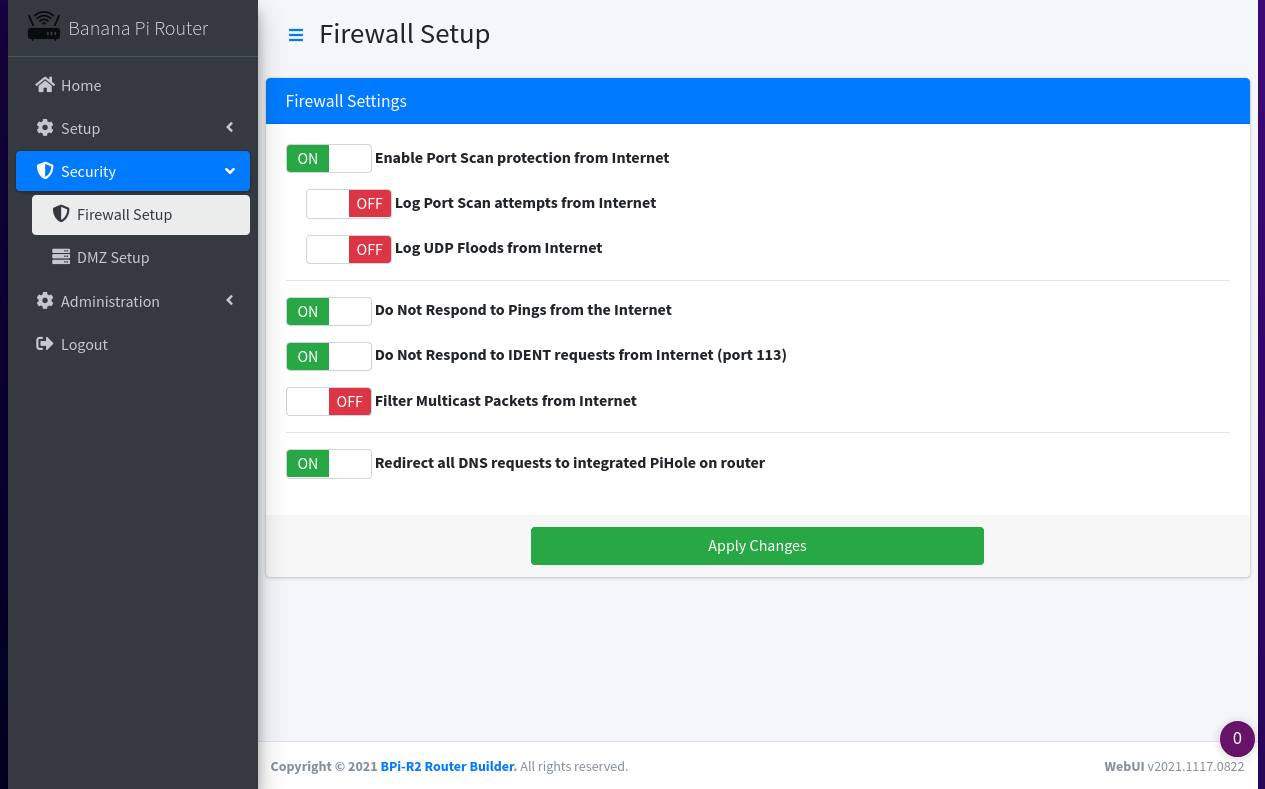
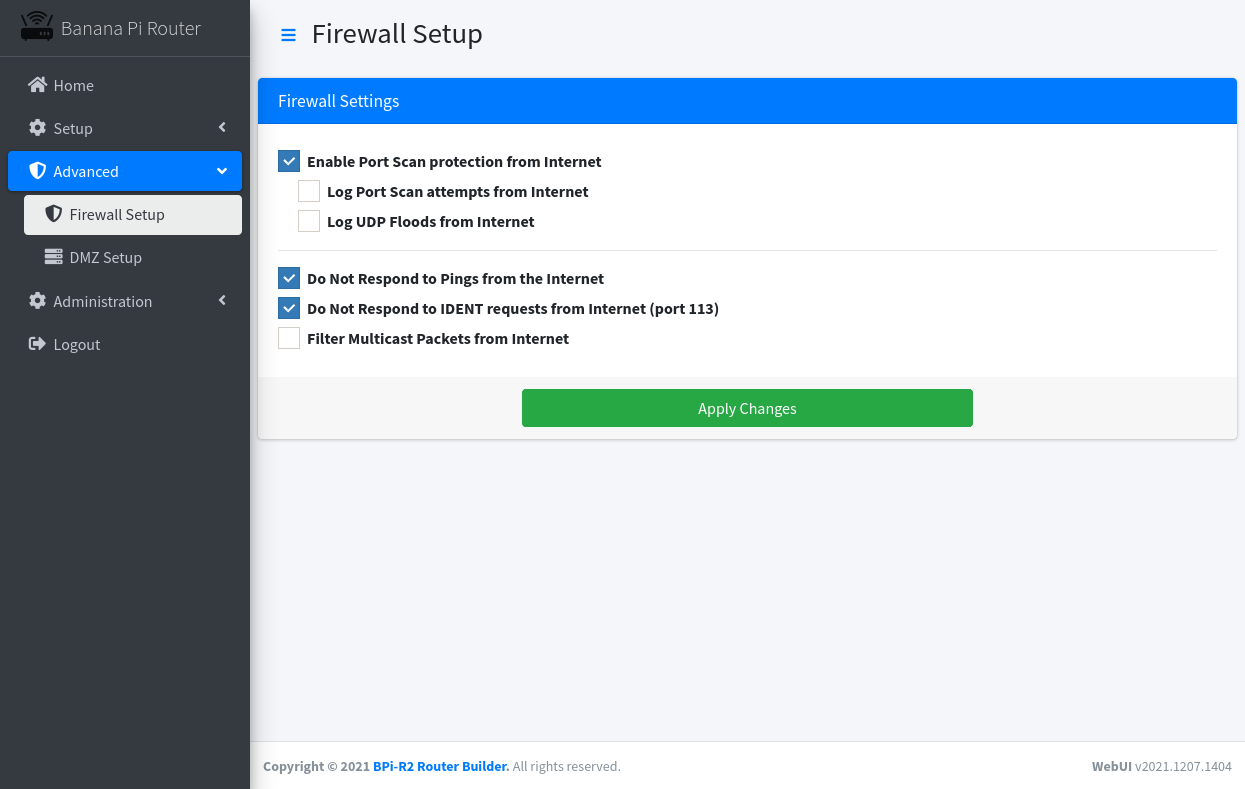
Added WebUI Admin / WebUI Management

diff --git a/router/js/site-admin.js b/router/js/site-admin.js
@@ -410,3 +410,11 @@ function Restore_Confirm()
 		Restore_Alert("AJAX call failed!");
 	});
 }
+
+//======================================================================================================
+// Javascript functions for "Admin / WebUI Management"
+//======================================================================================================
+function Init_Management()
+{
+	$(".checkbox").bootstrapSwitch();
+}

diff --git a/router/includes/subs/site.php b/router/includes/subs/site.php
@@ -25,6 +25,7 @@ $sidebar_menu = array(
 	)),
 	'admin'  => array('Administration', 'fas fa-cog', array(
 		'status'   => menu_link('/admin/status', 'Router Status', 'fas fa-ethernet'),
+		'manage'   => menu_link('/admin/management', 'WebUI Management', 'fas fa-server'),
 		'attached' => menu_link('/admin/attached', 'Attached Devices', 'fas fa-link'),
 		'backup'   => menu_link('/admin/backup', 'Backup &amp; Restore', 'fas fa-file-export'),
 		'creds'    => menu_link('/admin/creds', 'Credentials', 'fas fa-user-edit'),
@@ -355,7 +356,10 @@ function checkbox($name, $description, $default = true, $disabled_by = '')
 	global $options;
 	$checked = (!isset($options[$name]) ? $default : ($options[$name] == "Y"));
 	$enabled = (!empty($disabled_by) ? $options[$disabled_by] : true);
-	return '<p><input type="checkbox" id="' . $name . '" class="checkbox"' . ($checked ? ' checked="checked"' : '') . ' data-bootstrap-switch="" data-off-color="danger" data-on-color="success" ' . ($enabled ? '' : ' disabled="disabled"') . '> <strong id="' . $name . '_txt" ' . ($enabled ? '' : ' disabled="disabled"') . '>' . $description . '</strong></p>';
+	return '<div class="icheck-primary">' .
+				'<input type="checkbox" id="' . $name . '"' . ($checked == 'Y' ? ' checked="checked"' : '') . ($enabled ? '' : ' disabled="disabled"') . '>' .
+				'<label for="' . $name . '">' . $description . '</label>' .
+			'</div>';
 }
 
 #######################################################################################################

diff --git a/router/includes/admin-management.php b/router/includes/admin-management.php
@@ -1,0 +1,34 @@
+<?php
+#################################################################################################
+# If action specified and invalid SID passed, force a reload of the page.  Otherwise:
+#################################################################################################
+if (isset($_POST['action']))
+{
+	if (!isset($_POST['sid']) || $_POST['sid'] != $_SESSION['sid'])
+		die('RELOAD');
+
+	die("Invalid action");
+}
+
+#################################################################################################
+# Show the WebUI management page:
+#################################################################################################
+$options = parse_options();
+$options['allow_local_http']  = file_exists("/etc/nginx/sites-enabled/default");
+$options['allow_local_https'] = file_exists("/etc/nginx/sites-enabled/default-https");
+site_menu();
+echo '
+<div class="card card-primary">
+	<div class="card-header">
+		<h3 class="card-title">Local Management Access</h3>
+	</div>
+	<div class="card-body">
+		', checkbox("allow_local_http",  "Access WebUI using HTTP"), '
+		', checkbox("allow_local_https", "Access WebUI using HTTPS"), '
+	</div>
+	<div class="card-footer">
+		<a href="javascript:void(0);"><button type="button" class="btn btn-block btn-success center_50" id="apply_changes">Apply Changes</button></a>
+	</div>
+	<!-- /.card-body -->
+</div>';
+site_footer('Init_Management();');
